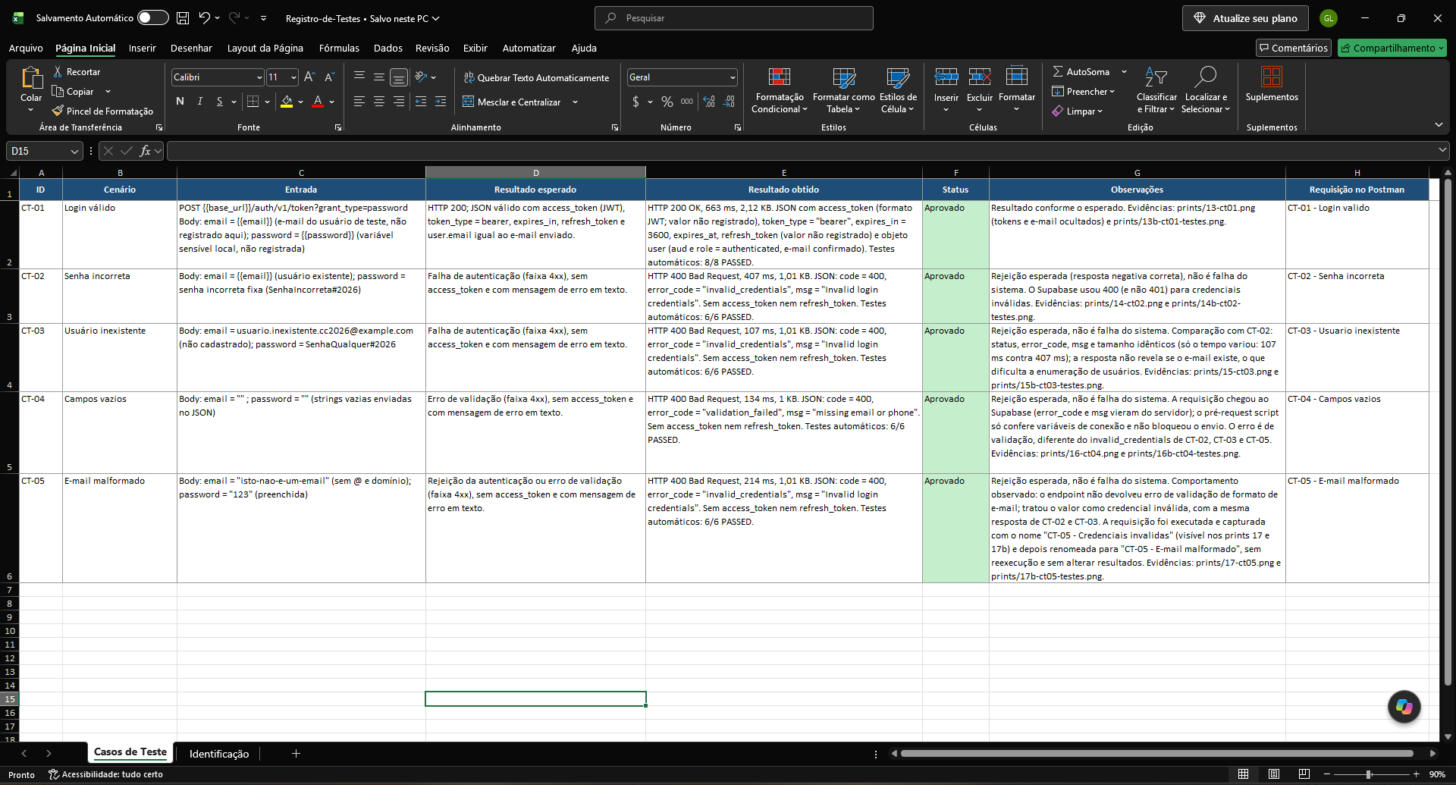
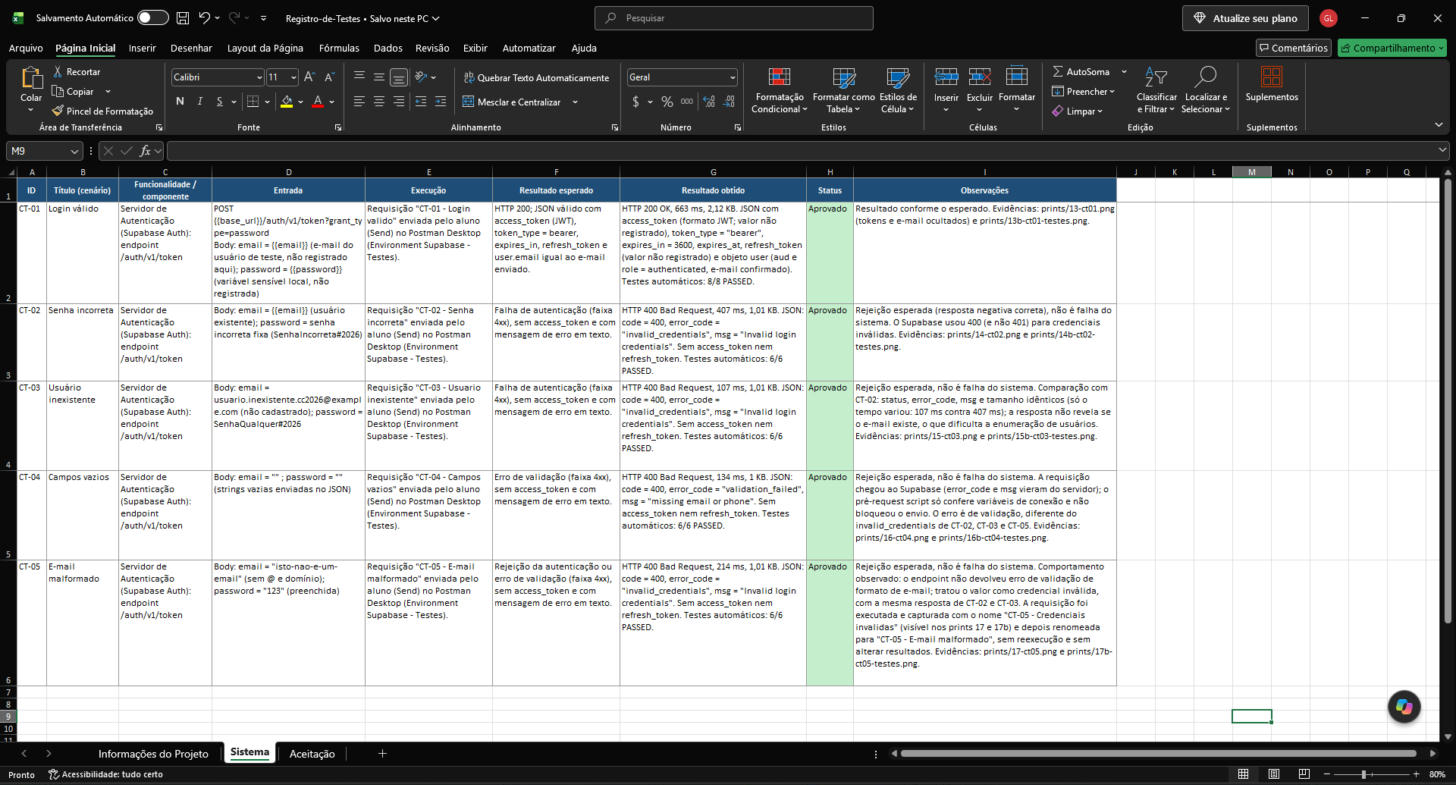
Alinha a entrega ao material da aula: planilha em tres abas e README ampliado
- README: disciplina, coluna "Entrada utilizada" na secao 7, tabela de headers,
  exemplo de body com valores ficticios e diagrama Mermaid do fluxo de login
- Planilha: abas Informacoes do Projeto, Sistema e Aceitacao, com os mesmos
  resultados ja registrados (5/5 aprovados, 32/32 verificacoes)
- Prints: recaptura da planilha (18) e novas capturas das abas Aceitacao (18b)
  e Informacoes do Projeto (18c)

diff --git a/README.md b/README.md
@@ -6,6 +6,7 @@
 **RA:** 250870
 **Curso:** Análise e Desenvolvimento de Sistemas
 **Instituição:** FACENS
+**Disciplina:** UX/UI e Testes de Software
 **Atividade:** Testes de caixa cinza no endpoint de login do Supabase Auth (Postman)
 
 ---
@@ -111,6 +112,50 @@ Todas as requisições usam:
   - `Content-Type: application/json`
 - **Body (raw/JSON):** conforme a tabela.
 
+### Exemplo dos headers
+
+| Header | Valor usado na requisição | Exemplo ilustrativo (fictício) | Função |
+|---|---|---|---|
+| `apikey` | `{{api_key}}` | `sb_publishable_<CHAVE_FICTICIA>` | Chave **publishable** do projeto, enviada em `apikey`, como orienta a documentação do Supabase |
+| `Authorization` | `Bearer {{anon_key}}` | `Bearer <JWT_ANON_EXEMPLO_FICTICIO>` | Chave **anon legada**, que é um JWT, enviada como Bearer para atender à exigência do professor |
+| `Content-Type` | `application/json` | `application/json` | Indica que o corpo da requisição é JSON |
+
+A chave publishable **não é um JWT**, por isso ela vai em `apikey` e não em `Authorization: Bearer`. A chave `anon` legada é um JWT e, por isso, pôde ser usada no header `Authorization` sem recorrer a nenhuma chave administrativa (`sb_secret_…` e `service_role` não são usadas). A justificativa completa e a verificação com `curl` estão na seção 3 ("Decisão sobre os headers"). Os valores da coluna "Exemplo ilustrativo" são inventados e só mostram o formato; nas requisições reais as chaves vêm das variáveis do Environment e **não** aparecem neste repositório.
+
+### Exemplo do body
+
+Formato do corpo enviado (valores **fictícios**, só para ilustrar):
+
+```json
+{
+  "email": "usuario.teste@example.com",
+  "password": "SenhaFicticia#123"
+}
+```
+
+Nos testes reais o CT-01 usa `{{email}}` e `{{password}}`, lidos do Environment local, e os demais cenários usam os corpos da tabela abaixo.
+
+### Fluxo de login testado
+
+Diagrama complementar, no estilo dos diagramas de sequência vistos em aula. Ele descreve somente o que foi **observado** nas execuções reais deste repositório.
+
+```mermaid
+sequenceDiagram
+    actor T as Aluno (Postman Desktop)
+    participant A as Supabase Auth (POST /auth/v1/token)
+    T->>A: e-mail e senha, com os headers apikey e Authorization
+    alt CT-01 - credenciais válidas
+        A-->>T: 200 OK com access_token e refresh_token
+    else CT-02, CT-03 e CT-05 - senha incorreta, e-mail inexistente ou malformado
+        A-->>T: 400 invalid_credentials, sem tokens
+    else CT-04 - campos vazios
+        A-->>T: 400 validation_failed, sem tokens
+    end
+    T->>T: scripts conferem status, JSON e presença ou ausência de token
+```
+
+### Requisições
+
 | ID | Cenário | Nome da requisição no Postman | Body enviado |
 |---|---|---|---|
 | CT-01 | Login válido | `CT-01 - Login valido` | `email = {{email}}`, `password = {{password}}` (usuário existente, credenciais válidas) |
@@ -157,23 +202,35 @@ Nas capturas do CT-01, os valores de `access_token` e `refresh_token` e o e-mail
 
 ## 7. Registro dos Testes
 
-Registro completo na planilha `planilha/Registro-de-Testes.xlsx` (entrada, esperado, obtido, status e observações técnicas de cada caso).
+Registro completo na planilha `planilha/Registro-de-Testes.xlsx`, organizada em três abas, no modelo de registro visto em aula:
 
-| ID | Cenário | Resultado esperado | Resultado obtido | Status |
-|---|---|---|---|---|
-| CT-01 | Login válido | HTTP 200 com `access_token` | HTTP **200 OK**, `access_token` presente, `token_type = bearer`, `expires_in = 3600` | Aprovado |
-| CT-02 | Senha incorreta | Falha de autenticação (4xx), sem `access_token` | HTTP **400**, `invalid_credentials`, "Invalid login credentials" | Aprovado |
-| CT-03 | Usuário inexistente | Falha de autenticação (4xx), sem `access_token` | HTTP **400**, `invalid_credentials`, "Invalid login credentials" | Aprovado |
-| CT-04 | Campos vazios | Erro de validação (4xx), sem `access_token` | HTTP **400**, `validation_failed`, "missing email or phone" | Aprovado |
-| CT-05 | E-mail malformado | Rejeição ou erro de validação (4xx), sem `access_token` | HTTP **400**, `invalid_credentials`, "Invalid login credentials" | Aprovado |
+- **Informações do Projeto:** ambiente, responsável e data dos testes.
+- **Sistema:** os testes executados, por componente (entrada, execução, esperado, obtido, status e observações técnicas de cada caso).
+- **Aceitação:** os requisitos de autenticação relacionados aos cenários e aos resultados aprovados (sem nenhuma execução nova).
+
+| ID | Cenário | Entrada utilizada | Resultado esperado | Resultado obtido | Status |
+|---|---|---|---|---|---|
+| CT-01 | Login válido | `email = {{email}}` (e-mail do usuário de teste), `password = {{password}}` (senha local, não registrada) | HTTP 200 com `access_token` | HTTP **200 OK**, `access_token` presente, `token_type = bearer`, `expires_in = 3600` | Aprovado |
+| CT-02 | Senha incorreta | `email = {{email}}` (usuário existente), `password = "SenhaIncorreta#2026"` | Falha de autenticação (4xx), sem `access_token` | HTTP **400**, `invalid_credentials`, "Invalid login credentials" | Aprovado |
+| CT-03 | Usuário inexistente | `email = "usuario.inexistente.cc2026@example.com"` (não cadastrado), `password = "SenhaQualquer#2026"` | Falha de autenticação (4xx), sem `access_token` | HTTP **400**, `invalid_credentials`, "Invalid login credentials" | Aprovado |
+| CT-04 | Campos vazios | `email = ""`, `password = ""` | Erro de validação (4xx), sem `access_token` | HTTP **400**, `validation_failed`, "missing email or phone" | Aprovado |
+| CT-05 | E-mail malformado | `email = "isto-nao-e-um-email"`, `password = "123"` | Rejeição ou erro de validação (4xx), sem `access_token` | HTTP **400**, `invalid_credentials`, "Invalid login credentials" | Aprovado |
 
 "Aprovado" significa que o resultado observado correspondeu ao esperado. Nos casos CT-02 a CT-05 a resposta negativa **é o comportamento correto** do sistema; nenhuma delas indica falha do Supabase.
 
 O CT-05 (`CT-05 - E-mail malformado`) representa o requisito de **credenciais inválidas** do enunciado, por meio de um e-mail em formato incorreto (veja a seção 5).
 
-**Planilha de testes preenchida** (captura real do arquivo `planilha/Registro-de-Testes.xlsx` aberto no Excel, com os cinco cenários, os resultados obtidos e os status): [prints/18-planilha-testes-preenchida.png](prints/18-planilha-testes-preenchida.png)
+**Planilha de testes preenchida** (capturas reais do arquivo `planilha/Registro-de-Testes.xlsx` aberto no Excel):
 
-![Planilha de testes preenchida](prints/18-planilha-testes-preenchida.png)
+| Aba | Conteúdo | Captura |
+|---|---|---|
+| Sistema | Os cinco cenários, as entradas, os resultados obtidos e os status | [prints/18-planilha-testes-preenchida.png](prints/18-planilha-testes-preenchida.png) |
+| Aceitação | Requisitos de autenticação relacionados aos cenários e aos resultados aprovados | [prints/18b-planilha-aceitacao.png](prints/18b-planilha-aceitacao.png) |
+| Informações do Projeto | Ambiente, responsável e data dos testes | [prints/18c-planilha-informacoes-projeto.png](prints/18c-planilha-informacoes-projeto.png) |
+
+![Planilha de testes preenchida (aba Sistema)](prints/18-planilha-testes-preenchida.png)
+![Planilha, aba Aceitação](prints/18b-planilha-aceitacao.png)
+![Planilha, aba Informações do Projeto](prints/18c-planilha-informacoes-projeto.png)
 
 ## 8. Resultados Obtidos
 
@@ -238,6 +295,7 @@ Valores lidos diretamente do Postman:
 ## Pendências
 
 - Nenhuma pendência de conteúdo: os cinco cenários foram executados e registrados, e o repositório foi publicado depois da auditoria de segurança (sem senhas, tokens ou chaves privadas).
+- Fora do escopo desta atividade: cadastro de usuário (Registrar-se), interface gráfica e automação com Selenium.
 - O usuário de teste do Supabase é descartável e pode ser excluído após a avaliação.
 
 ## Estrutura do repositório
